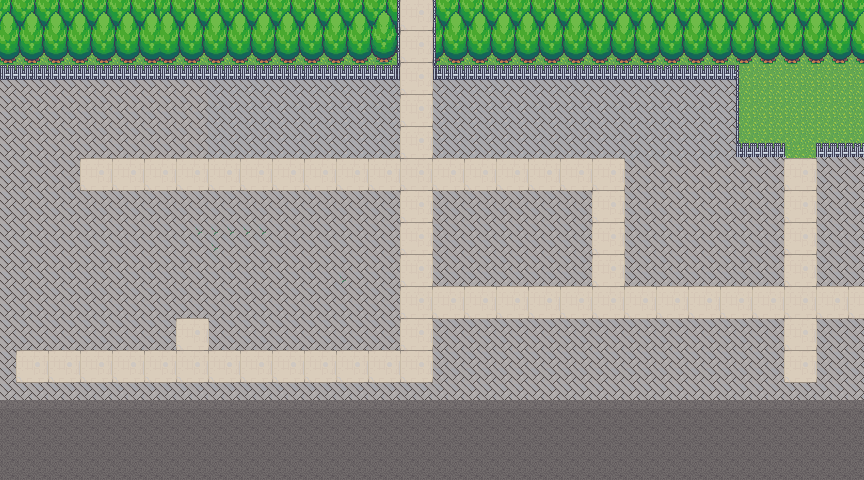
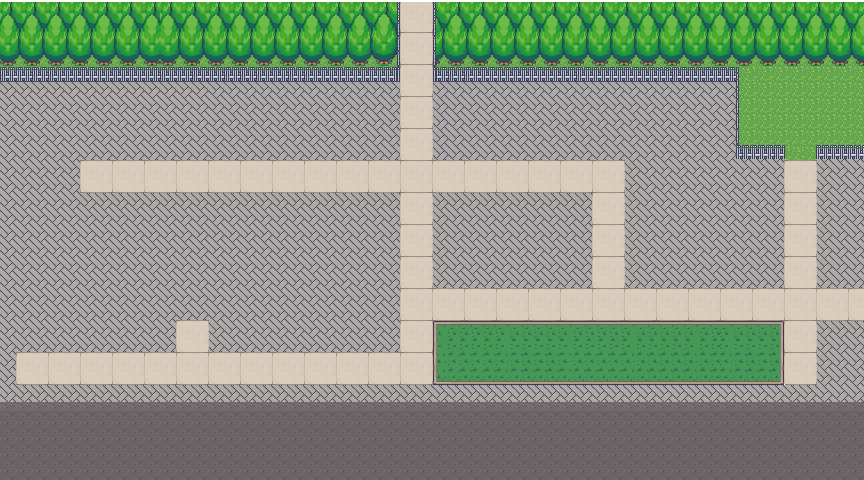
feat: Add more objects to the map

diff --git a/src/configs/maps/outside.ts b/src/configs/maps/outside.ts
@@ -142,6 +142,20 @@ export const outside = {
                 },
             },
         }),
+        signCollege: new GameObject({
+            x: getGridPosition(29.5),
+            y: getGridPosition(4),
+            hasShadow: false,
+            width: getGridPosition(1),
+            height: getGridPosition(1),
+            sprite: {
+                object: {
+                    src: '../images/objects/sign-college.png',
+                    width: getGridPosition(8),
+                    height: getGridPosition(3),
+                },
+            },
+        }),
         //PROFESSIONAL EXPERIENCE BUILDINGS
         farfetch: new GameObject({
             x: getGridPosition(17),
@@ -163,7 +177,7 @@ export const outside = {
         }),
         farfetchInfo: new GameObject({
             x: getGridPosition(23),
-            y: getGridPosition(20),
+            y: getGridPosition(19),
             hasShadow: false,
             width: getGridPosition(1),
             height: getGridPosition(1),
@@ -173,6 +187,9 @@ export const outside = {
                     width: 16,
                     height: 32,
                 },
+            },
+            interactionIcon: {
+                far:  '../images/objects/interaction.png',
             },
             interactions: [
                 {
@@ -223,6 +240,46 @@ export const outside = {
                 },
             },
         }),
+        dotlogicInfo: new GameObject({
+            x: getGridPosition(15),
+            y: getGridPosition(18),
+            hasShadow: false,
+            width: getGridPosition(1),
+            height: getGridPosition(1),
+            sprite: {
+                object: {
+                    src: '../images/objects/information.png',
+                    width: 16,
+                    height: 32,
+                },
+            },
+            interactionIcon: {
+                far:  '../images/objects/interaction.png',
+            },
+            interactions: [
+                {
+                    events: [
+                        // {type: 'message', text: `I'm currently working at Farfetch since 2017. My job here is to create tools and features to maximize website performance and to help developers experience`}
+                        {
+                            type: 'interactionBox',
+                            title: 'DotLogic',
+                            textLines: [
+                                `At Dotlogic, I worked as a developer for a year in 2016. The company specializes in developing medical software for hospitals, with a focus on cardiology.`,
+                                `I began my time at Dotlogic as a professional intern, where I had the opportunity to create a tool using Javascript and Canvas to read and display ECG data on the page`
+                            ],
+                        },
+                        {
+                            type: 'interactionBox',
+                            title: 'DotLogic',
+                            textLines:  [
+                                `After my internship, I was offered a full-time position at the company and continued to help improve various web tools.`,
+                                `Working at Dotlogic provided me with valuable experience in the healthcare industry and solidified my skills in Javascript and web development.`
+                            ],
+                        },
+                    ]
+                }
+            ],
+        }), 
         blip: new GameObject({
             x: getGridPosition(1),
             y: getGridPosition(11),
@@ -241,6 +298,45 @@ export const outside = {
                 },
             },
         }),
+        blipInfo: new GameObject({
+            x: getGridPosition(7),
+            y: getGridPosition(19),
+            hasShadow: false,
+            width: getGridPosition(1),
+            height: getGridPosition(1),
+            sprite: {
+                object: {
+                    src: '../images/objects/information.png',
+                    width: 16,
+                    height: 32,
+                },
+            },
+            interactionIcon: {
+                far:  '../images/objects/interaction.png',
+            },
+            interactions: [
+                {
+                    events: [
+                        // {type: 'message', text: `I'm currently working at Farfetch since 2017. My job here is to create tools and features to maximize website performance and to help developers experience`}
+                        {
+                            type: 'interactionBox',
+                            title: 'Blip',
+                            textLines: [
+                                
+                            ],
+                        },
+                        {
+                            type: 'interactionBox',
+                            title: 'Blip',
+                            textLines:  [
+                                `During my 3 months summer internship at Blip, I had the opportunity to work on a project to dynamically structure the front-end community documentation using JSDoc3`,
+                                `This project allowed me to get some knowledge on Front End tools while working with Scrum for the first time`
+                            ],
+                        },
+                    ]
+                }
+            ],
+        }), 
         // BAR BUILDING
         bar: new GameObject({
             x: getGridPosition(5),
@@ -300,6 +396,64 @@ export const outside = {
                     }],
                 }
             ],
+        }),
+        globe: new GameObject({
+            x: getGridPosition(41),
+            y: getGridPosition(5),
+            hasShadow: false,
+            width: getGridPosition(3),
+            height: getGridPosition(3),
+            sprite: {
+                object: {
+                    src: '../images/objects/globe.png',
+                    width: getGridPosition(3),
+                    height: getGridPosition(4),
+                },
+            },
+        }),
+
+        //TREES
+        tree1: new GameObject({
+            x: getGridPosition(28),
+            y: getGridPosition(19),
+            hasShadow: false,
+            width: getGridPosition(2),
+            height: getGridPosition(2),
+            sprite: {
+                object: {
+                    src: '../images/objects/tree.png',
+                    width: getGridPosition(2),
+                    height: getGridPosition(3),
+                },
+            },
+        }),
+        tree2: new GameObject({
+            x: getGridPosition(32),
+            y: getGridPosition(19),
+            hasShadow: false,
+            width: getGridPosition(2),
+            height: getGridPosition(2),
+            sprite: {
+                object: {
+                    src: '../images/objects/tree.png',
+                    width: getGridPosition(2),
+                    height: getGridPosition(3),
+                },
+            },
+        }),
+        tree3: new GameObject({
+            x: getGridPosition(30),
+            y: getGridPosition(21),
+            hasShadow: false,
+            width: getGridPosition(2),
+            height: getGridPosition(2),
+            sprite: {
+                object: {
+                    src: '../images/objects/tree.png',
+                    width: getGridPosition(2),
+                    height: getGridPosition(3),
+                },
+            },
         }),
         
         //OTHERS
